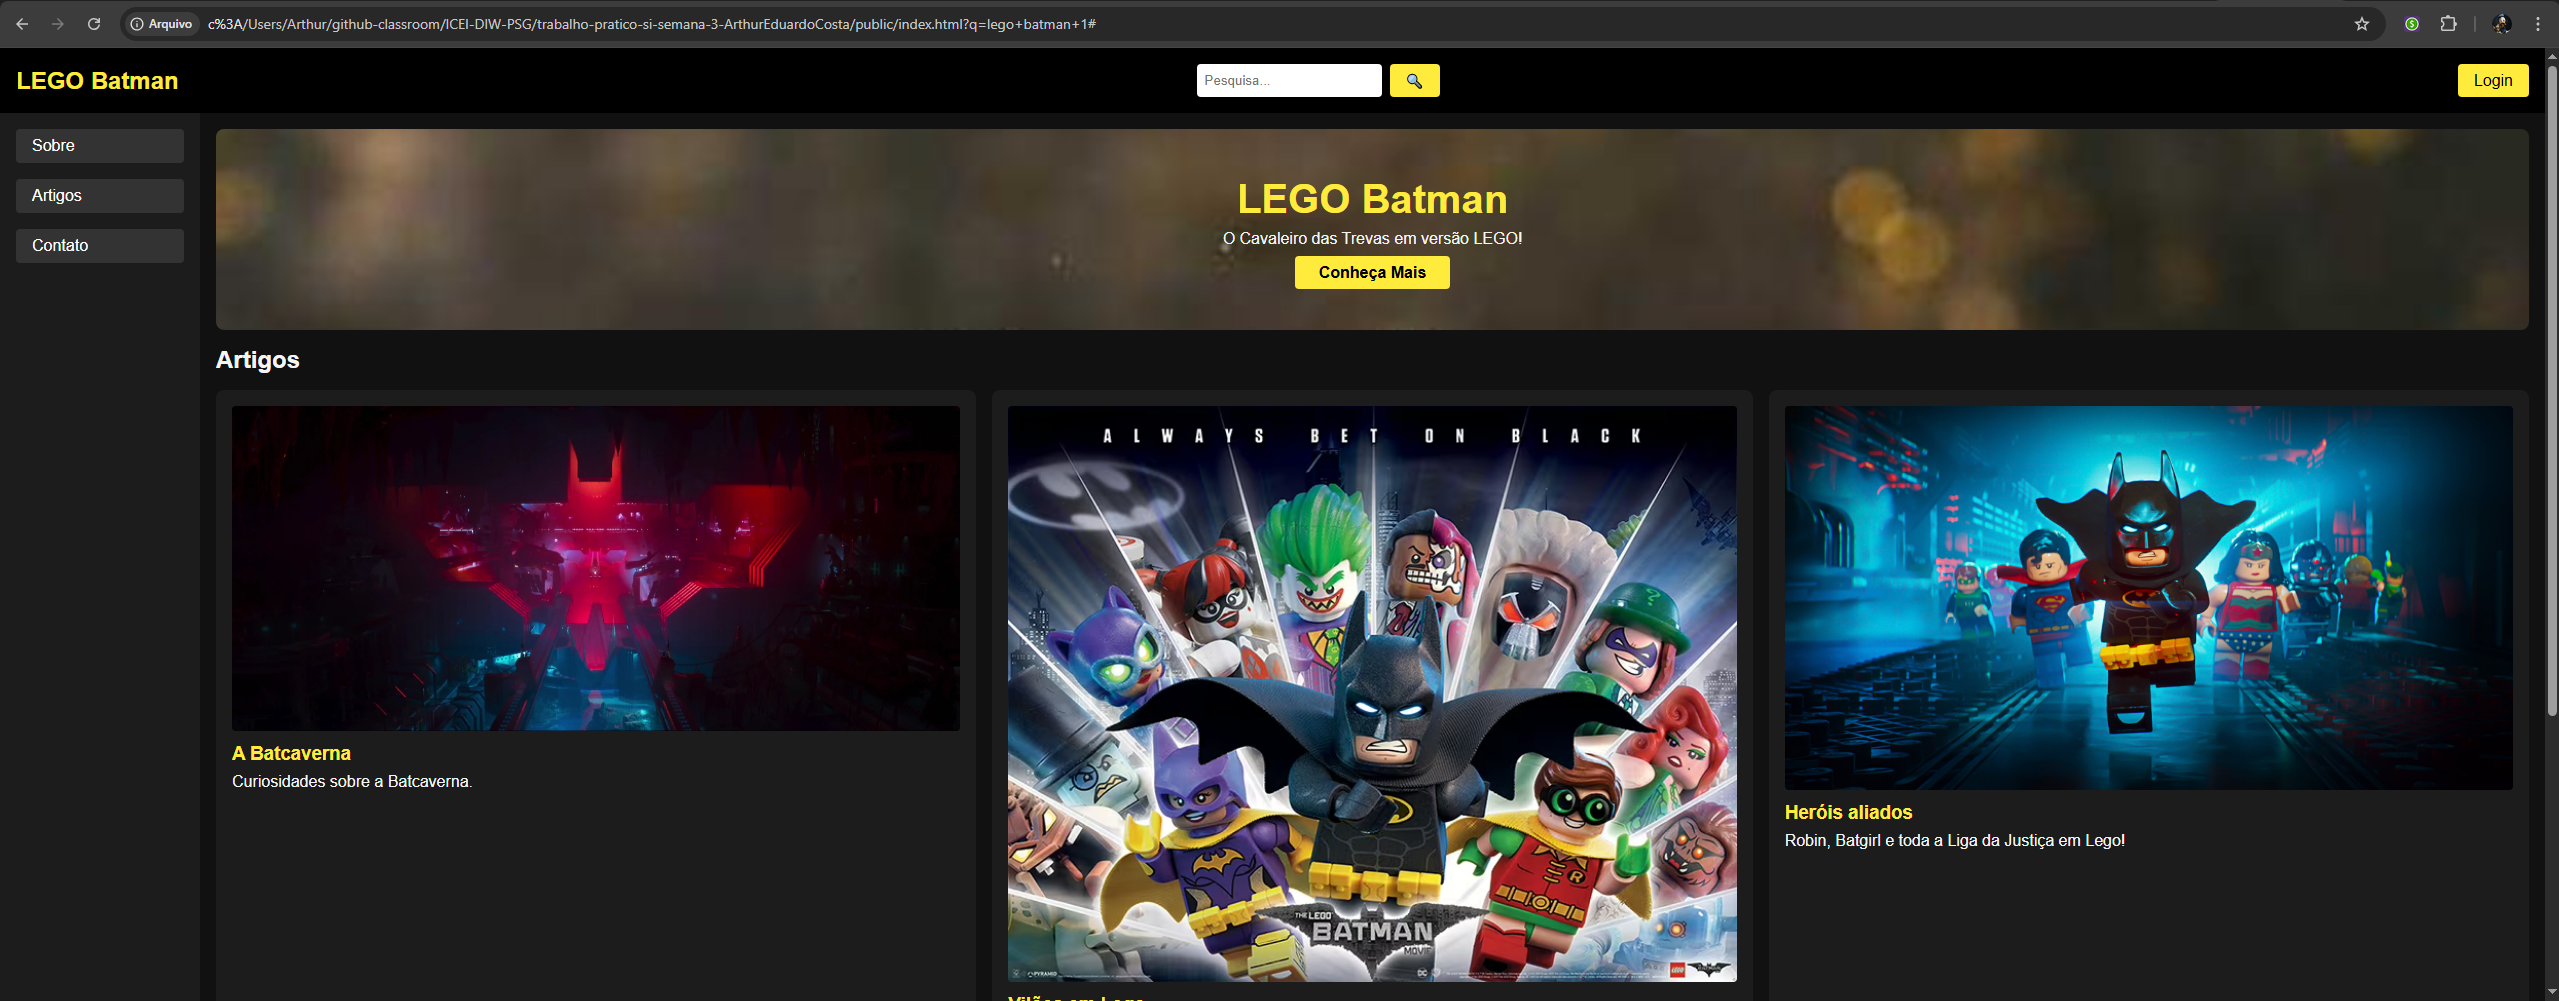
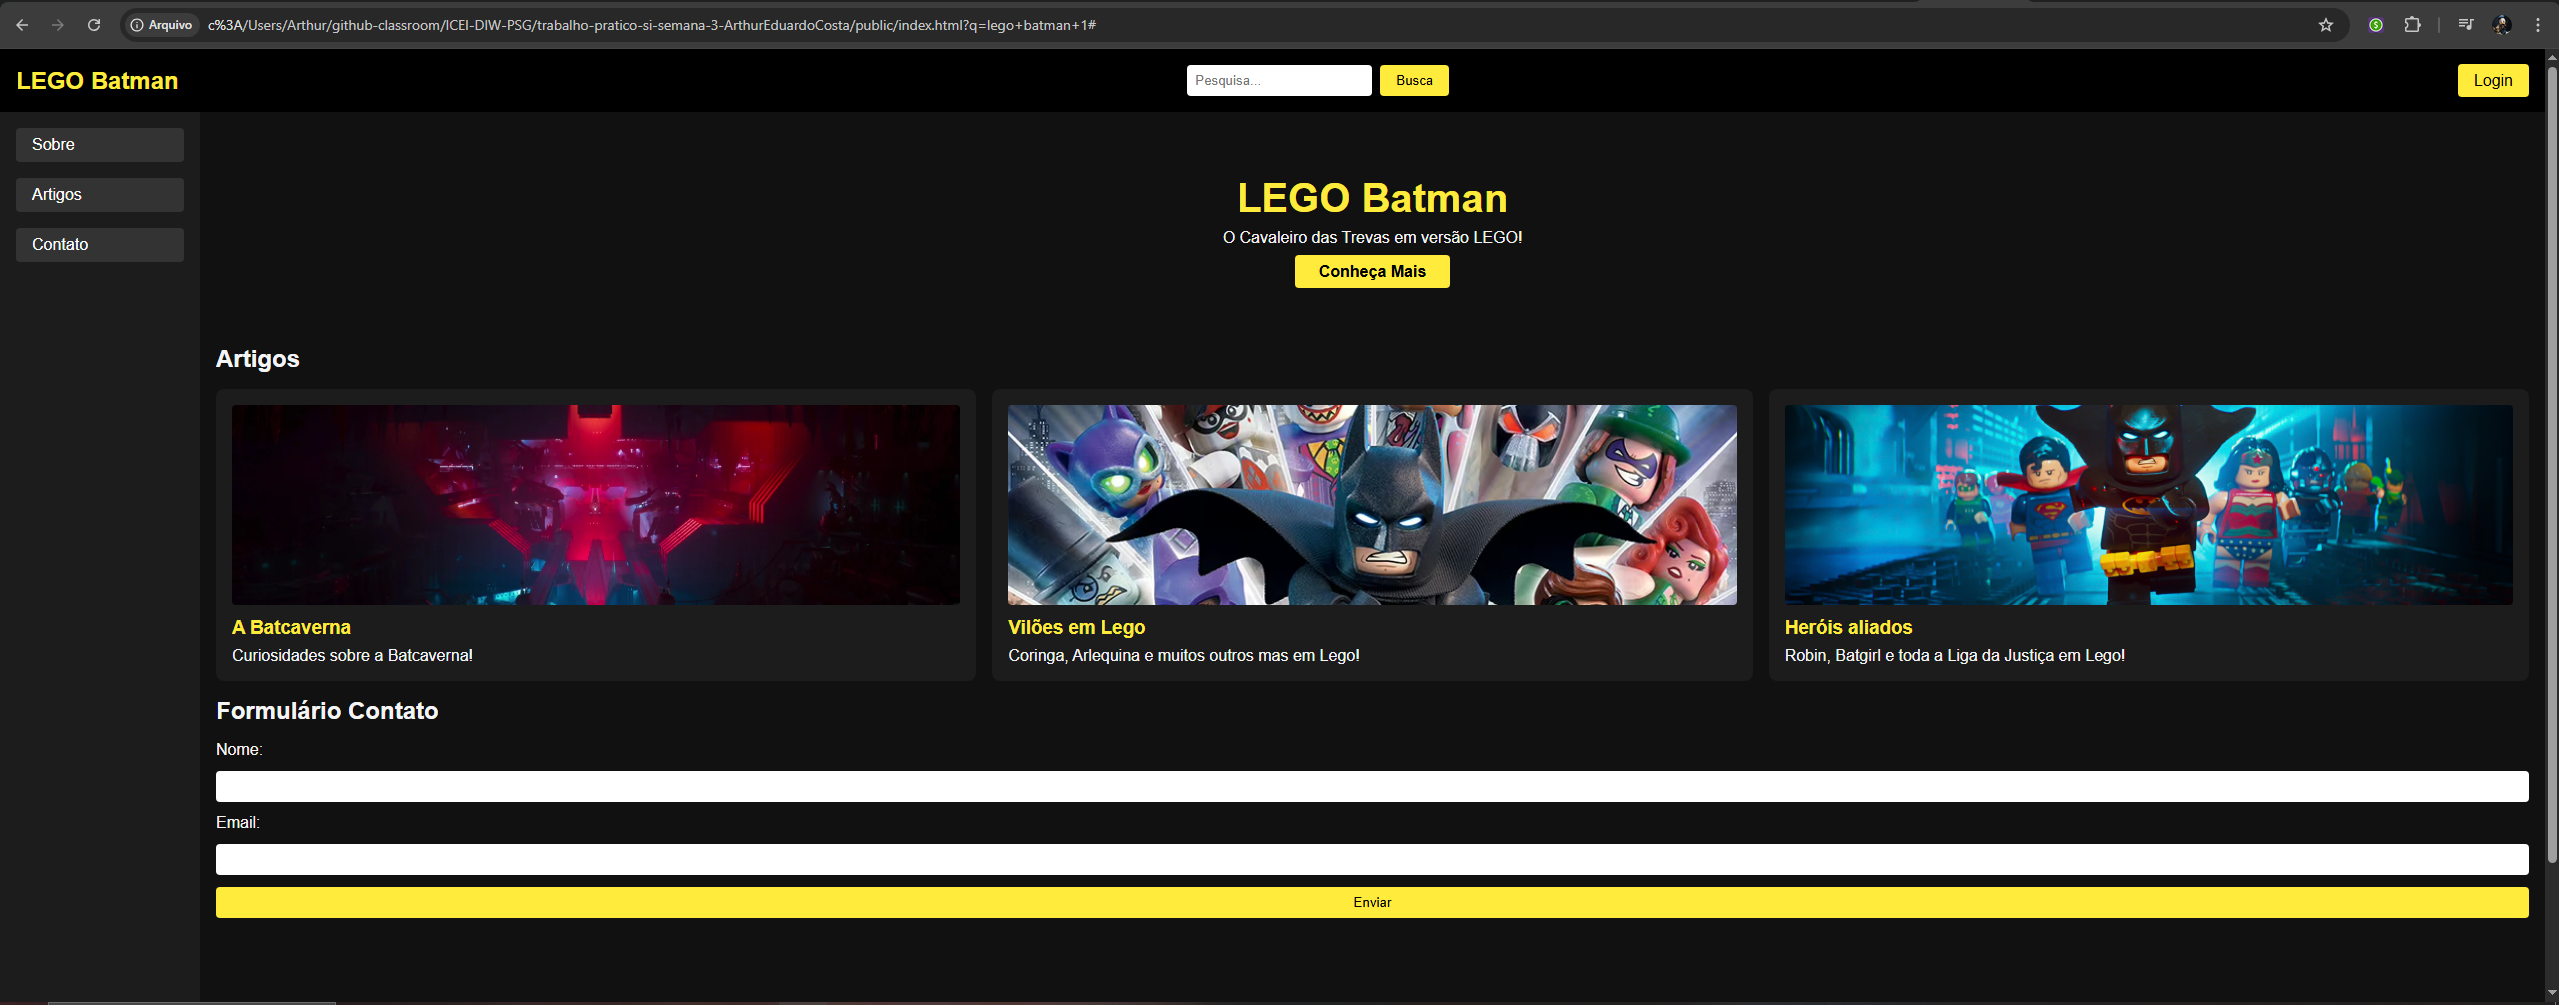
cria estrutura base do documento HTML

diff --git a/public/style.css b/public/style.css
@@ -69,7 +69,6 @@ a { text-decoration: none; color: inherit; }
 
 /* Hero */
 .hero {
-  background: url('https://picsum.photos/id/1003/800/300') center/cover no-repeat;
   padding: 3rem 1rem;
   text-align: center;
   border-radius: 8px;
@@ -98,7 +97,13 @@ a { text-decoration: none; color: inherit; }
   padding: 1rem;
   border-radius: 8px;
 }
-.card img { width: 100%; border-radius: 4px; margin-bottom: .5rem; }
+.card img {
+  width: 100%;        
+  height: 200px;      
+  object-fit: cover;  
+  border-radius: 4px;
+  margin-bottom: .5rem;
+}
 .card h3 { color: #ffeb3b; margin-bottom: .5rem; }
 
 /* Contact form */

diff --git a/public/index.html b/public/index.html
@@ -11,7 +11,7 @@
     <div class="logo">LEGO Batman</div>
     <form class="search-form" action="#" method="get">
       <input type="text" placeholder="Pesquisa..." name="q" required>
-      <button type="submit">🔍</button>
+      <button type="submit">Busca</button>
     </form>
     <nav class="header-actions">
       <a href="#" class="btn">Login</a>

diff --git a/README.md b/README.md
@@ -10,8 +10,8 @@ Nessa atividade, você deverá montar a página inicial do projeto escolhido, a 
 
 ## Informações Gerais
 
-- Nome:Arthur Eduardo de Oliveira Costa
-- Matricula:902839
+- Nome: Arthur Eduardo de Oliveira Costa
+- Matricula: 902839
 - Proposta de projeto escolhida: Site do lego batman
 - Breve descrição sobre seu projeto: um site que fala sobre os jogos do Lego Batman
 
